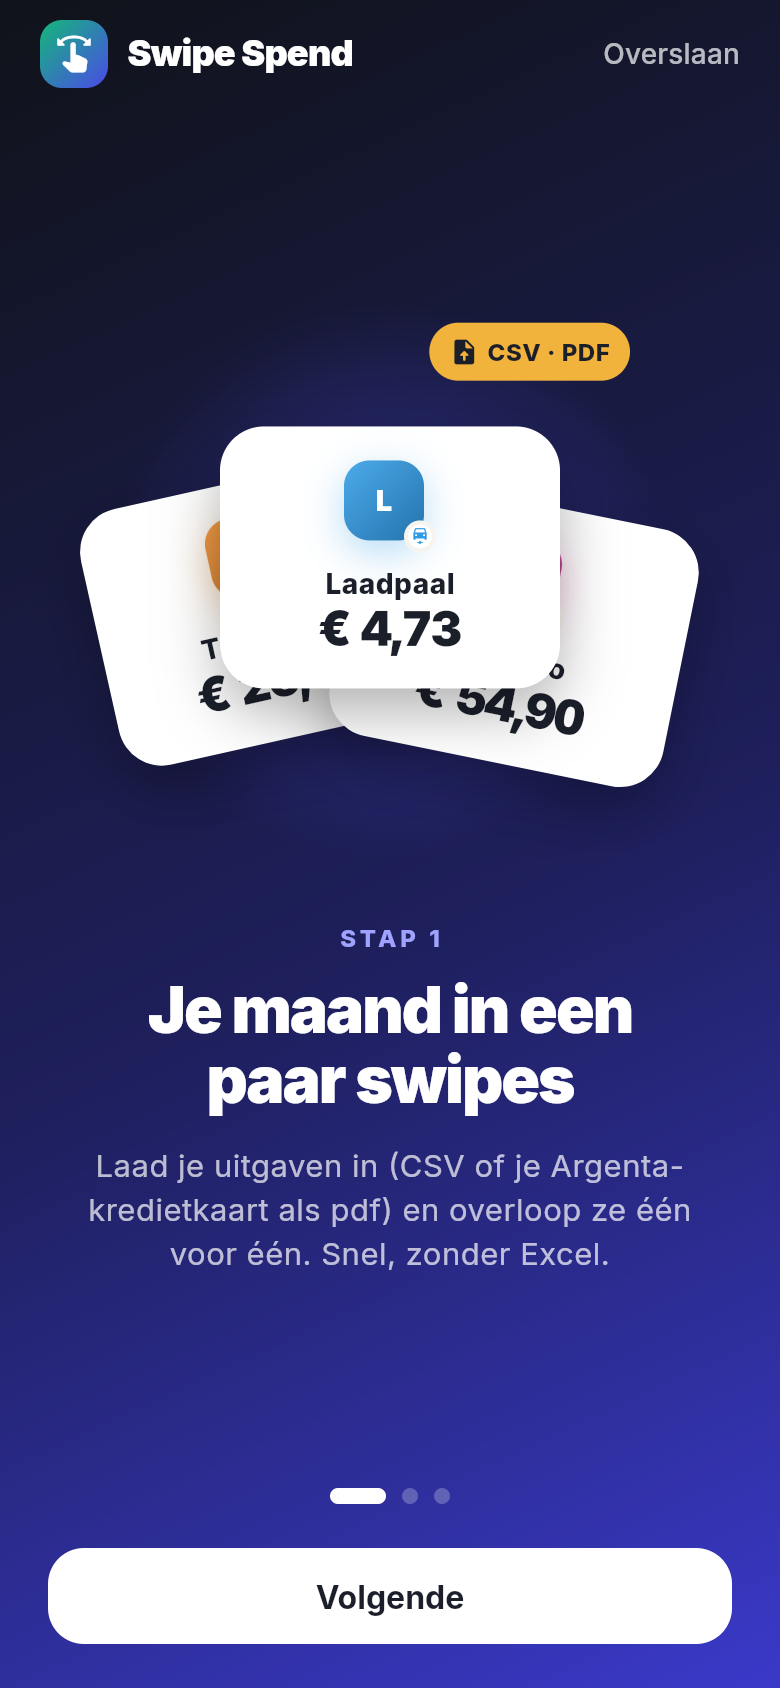
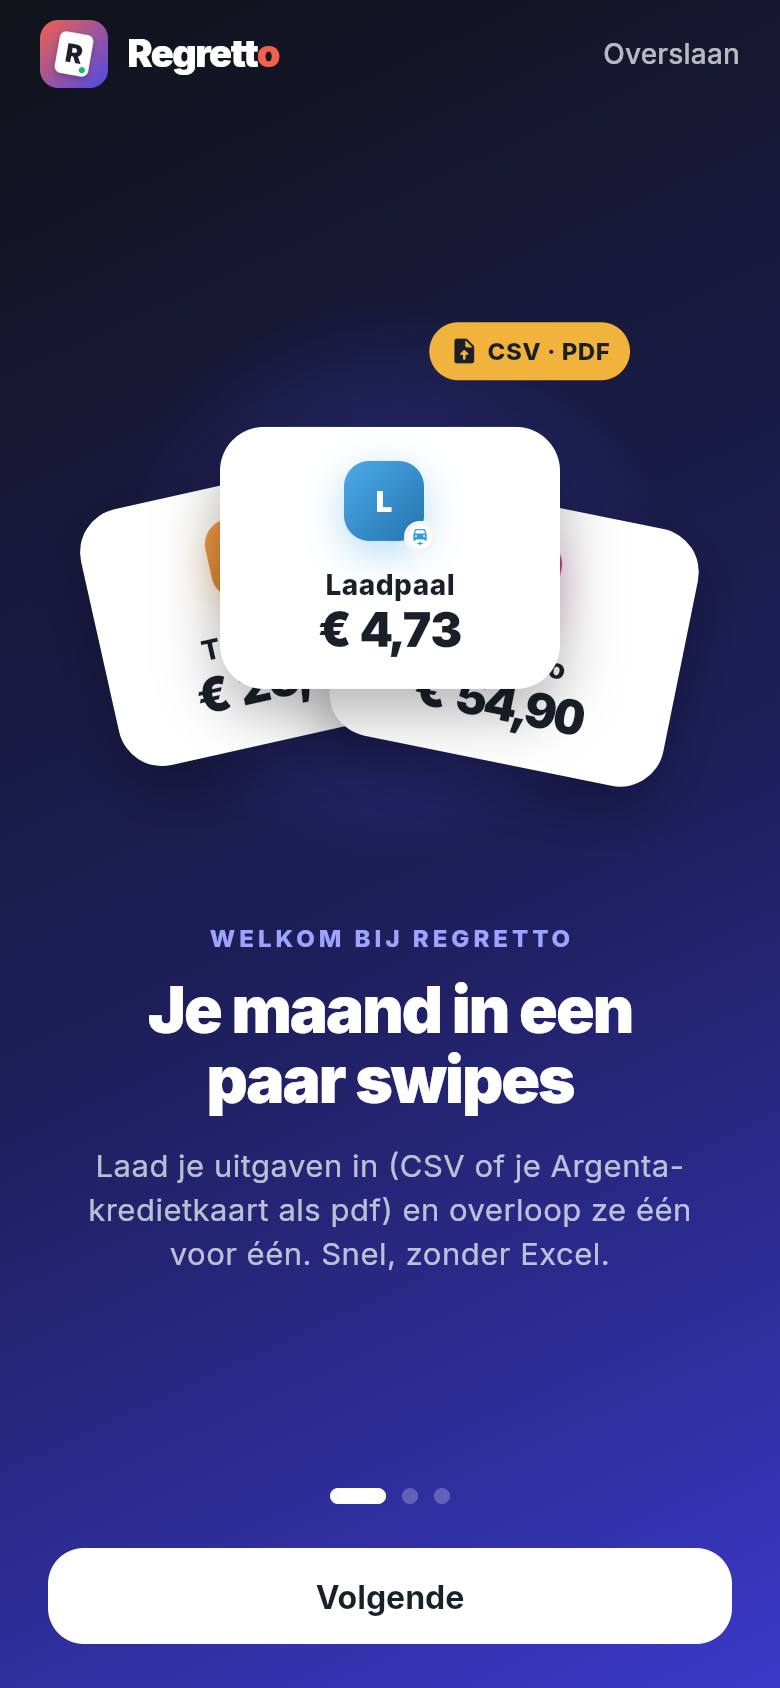
Rebrand naar Regretto: naam, woordmerk en iconen

diff --git a/lib/widgets/brand.dart b/lib/widgets/brand.dart
@@ -1,0 +1,102 @@
+import 'dart:math' as math;
+
+import 'package:material_ui/material_ui.dart';
+
+import '../app_config.dart';
+import '../theme.dart';
+
+/// Merkteken: verloop koraal -> indigo met een wit, gekanteld kaartje en een "R"
+/// (zelfde ontwerp als de app-iconen uit tool/make_icons.py).
+class LogoMark extends StatelessWidget {
+  const LogoMark({super.key, this.size = 36});
+  final double size;
+
+  @override
+  Widget build(BuildContext context) {
+    return Container(
+      width: size,
+      height: size,
+      decoration: BoxDecoration(
+        borderRadius: BorderRadius.circular(size * 0.27),
+        gradient: const LinearGradient(
+          begin: Alignment.topLeft,
+          end: Alignment.bottomRight,
+          colors: [AppColors.regret, AppColors.brand],
+        ),
+      ),
+      alignment: Alignment.center,
+      child: Transform.rotate(
+        angle: 10 * math.pi / 180,
+        child: Container(
+          width: size * 0.5,
+          height: size * 0.62,
+          decoration: BoxDecoration(
+            color: Colors.white,
+            borderRadius: BorderRadius.circular(size * 0.1),
+            boxShadow: [BoxShadow(color: Colors.black.withValues(alpha: 0.25), blurRadius: size * 0.06, offset: Offset(0, size * 0.03))],
+          ),
+          child: Stack(
+            children: [
+              Center(
+                child: Text('R',
+                    style: TextStyle(
+                        fontSize: size * 0.38, fontWeight: FontWeight.w900, color: AppColors.ink, height: 1)),
+              ),
+              Positioned(
+                right: size * 0.05,
+                bottom: size * 0.05,
+                child: Container(
+                  width: size * 0.09,
+                  height: size * 0.09,
+                  decoration: const BoxDecoration(color: AppColors.keep, shape: BoxShape.circle),
+                ),
+              ),
+            ],
+          ),
+        ),
+      ),
+    );
+  }
+}
+
+/// Woordmerk: naam in Inter Black, laatste letter in koraal.
+class Wordmark extends StatelessWidget {
+  const Wordmark({super.key, this.onDark = false, this.fontSize = 19});
+  final bool onDark;
+  final double fontSize;
+
+  @override
+  Widget build(BuildContext context) {
+    const name = AppConfig.appName;
+    final base = TextStyle(
+      fontWeight: FontWeight.w900,
+      fontSize: fontSize,
+      letterSpacing: -fontSize * 0.04,
+      color: onDark ? Colors.white : AppColors.ink,
+    );
+    return Semantics(
+      label: name,
+      excludeSemantics: true,
+      child: Text.rich(TextSpan(children: [
+        TextSpan(text: name.substring(0, name.length - 1), style: base),
+        TextSpan(text: name.substring(name.length - 1), style: base.copyWith(color: AppColors.regret)),
+      ])),
+    );
+  }
+}
+
+/// Logo + woordmerk naast elkaar.
+class AppLogo extends StatelessWidget {
+  const AppLogo({super.key, this.onDark = false});
+  final bool onDark;
+
+  @override
+  Widget build(BuildContext context) => Row(
+        mainAxisSize: MainAxisSize.min,
+        children: [
+          const LogoMark(size: 34),
+          const SizedBox(width: 10),
+          Wordmark(onDark: onDark),
+        ],
+      );
+}

diff --git a/lib/screens/onboarding_screen.dart b/lib/screens/onboarding_screen.dart
@@ -3,6 +3,7 @@ import 'package:material_ui/material_ui.dart';
 import '../app_config.dart';
 import '../state/app_state.dart';
 import '../theme.dart';
+import '../widgets/brand.dart';
 import '../widgets/illustrations.dart';
 import 'import_screen.dart';
 
@@ -28,17 +29,17 @@ class _OnboardingScreenState extends State<OnboardingScreen> {
 
   static const _steps = [
     _Step(
-      'STAP 1',
+      'Welkom bij ${AppConfig.appName}',
       'Je maand in een\npaar swipes',
       'Laad je uitgaven in (CSV of je Argenta-kredietkaart als pdf) en overloop ze één voor één. Snel, zonder Excel.',
     ),
     _Step(
-      'STAP 2',
+      'Stap 2',
       'Rechts = opnieuw\nLinks = spijt',
       'Was het het waard? Swipe rechts. Liever niet meer? Swipe links. Eerlijk zijn, niemand kijkt mee.',
     ),
     _Step(
-      'STAP 3',
+      'Stap 3',
       'Zie wat je\nkan besparen',
       'Meteen je spijt in euro, per categorie, en wat je per maand overhoudt als je dat schrapt.',
     ),
@@ -143,7 +144,7 @@ class _StepView extends StatelessWidget {
         children: [
           FloatingIllustration(step: index),
           const SizedBox(height: 30),
-          Text(step.kicker,
+          Text(step.kicker.toUpperCase(),
               style: const TextStyle(
                   color: Color(0xFF9FA2FF), fontWeight: FontWeight.w800, letterSpacing: 2, fontSize: 12)),
           const SizedBox(height: 10),
@@ -166,41 +167,6 @@ class _StepView extends StatelessWidget {
           ),
         ],
       ),
-    );
-  }
-}
-
-class AppLogo extends StatelessWidget {
-  const AppLogo({super.key, this.onDark = false});
-  final bool onDark;
-
-  @override
-  Widget build(BuildContext context) {
-    return Row(
-      mainAxisSize: MainAxisSize.min,
-      children: [
-        Container(
-          width: 34,
-          height: 34,
-          decoration: BoxDecoration(
-            borderRadius: BorderRadius.circular(11),
-            gradient: const LinearGradient(
-              begin: Alignment.topLeft,
-              end: Alignment.bottomRight,
-              colors: [AppColors.keep, AppColors.brand],
-            ),
-          ),
-          child: const Icon(Icons.swipe_rounded, color: Colors.white, size: 20),
-        ),
-        const SizedBox(width: 10),
-        Text(AppConfig.appName,
-            style: TextStyle(
-              fontWeight: FontWeight.w900,
-              fontSize: 18,
-              letterSpacing: -0.4,
-              color: onDark ? Colors.white : AppColors.ink,
-            )),
-      ],
     );
   }
 }

diff --git a/web/index.html b/web/index.html
@@ -18,7 +18,7 @@
 
   <meta charset="UTF-8">
   <meta content="IE=Edge" http-equiv="X-UA-Compatible">
-  <meta name="description" content="Swipe Spend: swipe je uitgaven, leer minder uitgeven.">
+  <meta name="description" content="Regretto: swipe je uitgaven, leer minder uitgeven.">
 
   <!--
     Uncomment the tag below to lay the app out underneath the parts of the
@@ -35,13 +35,13 @@
   <!-- iOS meta tags & icons -->
   <meta name="mobile-web-app-capable" content="yes">
   <meta name="apple-mobile-web-app-status-bar-style" content="black">
-  <meta name="apple-mobile-web-app-title" content="Swipe Spend">
+  <meta name="apple-mobile-web-app-title" content="Regretto">
   <link rel="apple-touch-icon" href="icons/Icon-192.png">
 
   <!-- Favicon -->
   <link rel="icon" type="image/png" href="favicon.png"/>
 
-  <title>Swipe Spend</title>
+  <title>Regretto</title>
   <link rel="manifest" href="manifest.json">
 </head>
 <body>

diff --git a/lib/app_config.dart b/lib/app_config.dart
@@ -1,5 +1,5 @@
 /// Centrale app-config. Wijzig de naam hier en hij verandert overal in de app.
 class AppConfig {
-  static const appName = 'Swipe Spend';
-  static const tagline = 'Swipe je uitgaven. Voel wat het waard was.';
+  static const appName = 'Regretto';
+  static const tagline = 'Swipe je uitgaven. Spijt je, of zou je het opnieuw doen?';
 }

diff --git a/lib/screens/import_screen.dart b/lib/screens/import_screen.dart
@@ -10,8 +10,8 @@ import '../state/app_state.dart';
 import '../theme.dart';
 import '../widgets/app_menu.dart';
 import '../widgets/bits.dart';
+import '../widgets/brand.dart';
 import '../widgets/sample_badge.dart';
-import 'onboarding_screen.dart';
 import 'summary_screen.dart';
 import 'swipe_screen.dart';
 

diff --git a/tool/make_icons.py b/tool/make_icons.py
@@ -1,0 +1,64 @@
+"""Genereert het Regretto-logo (favicon + PWA-iconen) met Inter Black.
+
+Merkteken: verloop koraal -> indigo, met een wit, licht gekanteld kaartje
+en een "R". Gebruik: python3 tool/make_icons.py
+"""
+from PIL import Image, ImageDraw, ImageFont, ImageFilter
+
+FONT = 'assets/fonts/Inter-Black.ttf'
+CORAL = (242, 97, 75)
+INDIGO = (75, 74, 232)
+INK = (27, 31, 42)
+GREEN = (20, 184, 122)
+
+
+def gradient(size):
+    img = Image.new('RGB', (size, size))
+    px = img.load()
+    for y in range(size):
+        for x in range(size):
+            t = (x + y) / (2 * size - 2)
+            px[x, y] = tuple(int(CORAL[i] * (1 - t) + INDIGO[i] * t) for i in range(3))
+    return img
+
+
+def mark(size, maskable=False):
+    s = size * 4  # supersample
+    bg = gradient(s).convert('RGBA')
+    mask = Image.new('L', (s, s), 0)
+    d = ImageDraw.Draw(mask)
+    if maskable:
+        d.rectangle([0, 0, s, s], fill=255)
+    else:
+        d.rounded_rectangle([0, 0, s - 1, s - 1], radius=int(s * 0.27), fill=255)
+    out = Image.new('RGBA', (s, s), (0, 0, 0, 0))
+    out.paste(bg, (0, 0), mask)
+
+    scale = 0.72 if maskable else 1.0
+    cw, ch = int(s * 0.50 * scale), int(s * 0.62 * scale)
+    card = Image.new('RGBA', (cw, ch), (0, 0, 0, 0))
+    cd = ImageDraw.Draw(card)
+    cd.rounded_rectangle([0, 0, cw - 1, ch - 1], radius=int(cw * 0.2), fill=(255, 255, 255, 255))
+    font = ImageFont.truetype(FONT, int(ch * 0.62))
+    bbox = cd.textbbox((0, 0), 'R', font=font)
+    tw, th = bbox[2] - bbox[0], bbox[3] - bbox[1]
+    cd.text(((cw - tw) / 2 - bbox[0], (ch - th) / 2 - bbox[1] - ch * 0.03), 'R', font=font, fill=INK)
+    r = int(cw * 0.09)
+    cd.ellipse([cw - r * 3.2, ch - r * 3.2, cw - r * 1.2, ch - r * 1.2], fill=GREEN)
+    card = card.rotate(-10, resample=Image.BICUBIC, expand=True)
+    shadow = Image.new('RGBA', card.size, (0, 0, 0, 0))
+    shadow.paste((0, 0, 0, 90), (0, 0), card.split()[3])
+    shadow = shadow.filter(ImageFilter.GaussianBlur(s * 0.02))
+    x, y = (s - card.width) // 2, (s - card.height) // 2
+    out.alpha_composite(shadow, (x, y + int(s * 0.025)))
+    out.alpha_composite(card, (x, y))
+    return out.resize((size, size), Image.LANCZOS)
+
+
+mark(32).save('web/favicon.png')
+mark(192).save('web/icons/Icon-192.png')
+mark(512).save('web/icons/Icon-512.png')
+mark(192, maskable=True).save('web/icons/Icon-maskable-192.png')
+mark(512, maskable=True).save('web/icons/Icon-maskable-512.png')
+mark(1024).save('assets/brand_regretto_mark.png')
+print('ok')

diff --git a/README.md b/README.md
@@ -1,4 +1,8 @@
-# Swipe Spend (demo)
+# Regretto (demo)
+
+<img src="web/icons/Icon-192.png" width="96" alt="Regretto-logo">
+
+_Werktitel was "Swipe Spend"; de repo heet nog `swipe-spend`._
 
 **Live demo:** https://martyrules.github.io/swipe-spend/
 
@@ -25,8 +29,8 @@ je had, per categorie, en wat je per maand kan besparen als je dat schrapt.
 - Alles wordt lokaal bewaard: swipes en notities overleven een refresh; "Alle data wissen" in het menu
 
 ## Naam veranderen
-De app-naam staat op één plek: `lib/app_config.dart` (`AppConfig.appName`).
-(Ook nog de `<title>` in `web/index.html` en `web/manifest.json` voor de browsertab.)
+De app-naam staat op één plek in de code: `lib/app_config.dart` (`AppConfig.appName`, nu "Regretto").
+Daarnaast: `<title>` in `web/index.html`, `web/manifest.json`, en de iconen (`python3 tool/make_icons.py`).
 
 ## Structuur
 `lib/models`, `lib/services` (CSV- en Argenta-parser, merchant-mapping, categorisatie, inzichten,
